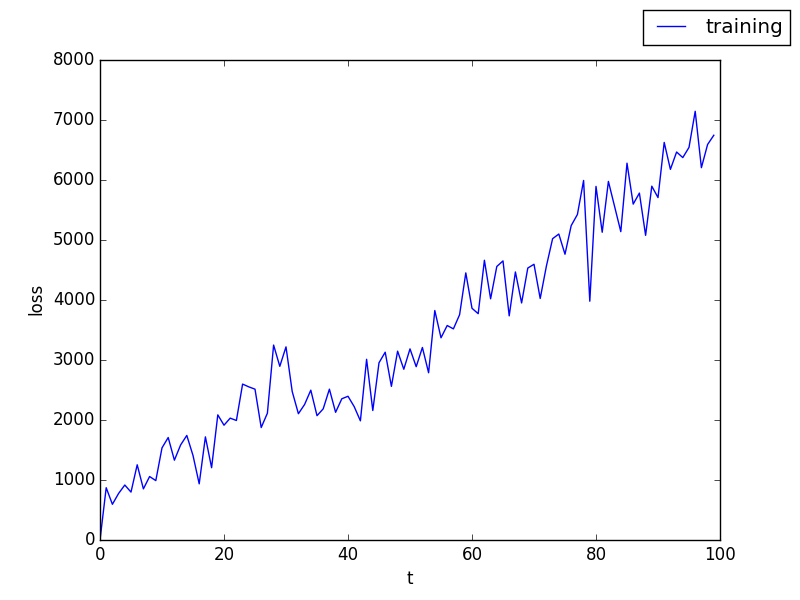
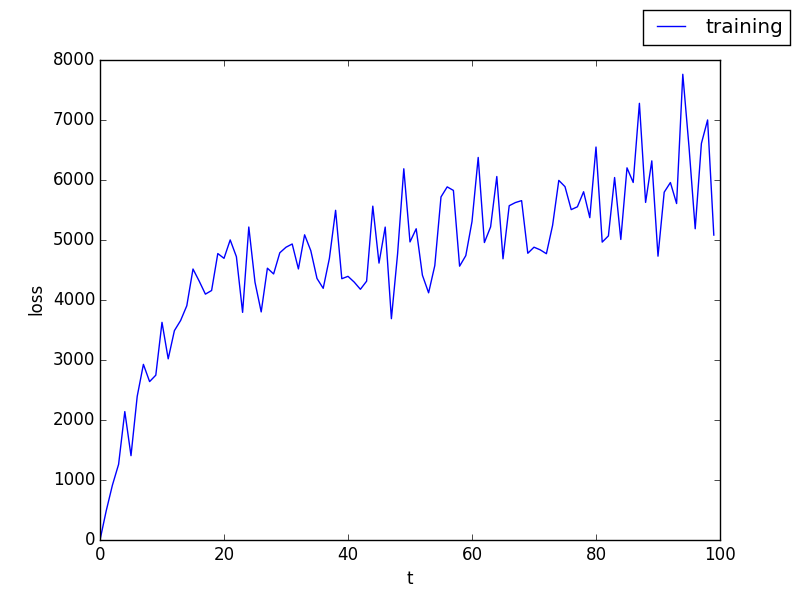
added terminal state

diff --git a/world/tasks.py b/world/tasks.py
@@ -36,6 +36,7 @@ class Foo(Iterator):
         self.state = self.get_state()
         self.obs = self.get_observation()
         self.reward = None
+        self.terminal = None
 
         return self
 
@@ -47,7 +48,7 @@ class Foo(Iterator):
         self.idx += 1
 
         # return new observation and reward associated with agent's choice
-        return self.obs, self.reward
+        return self.obs, self.reward, np.zeros(self.batch_size, dtype=np.bool)
 
     def process(self, agent):
         """ Process agent action, compute reward and generate new state and observation
@@ -148,6 +149,7 @@ class ProbabilisticCategorizationTask(Iterator):
         self.state = None
         self.obs = None
         self.reward = None
+        self.terminal = None
 
     def __iter__(self):
 
@@ -155,6 +157,7 @@ class ProbabilisticCategorizationTask(Iterator):
         self.state = np.int32(np.random.randint(1, 3, size=[self.batch_size,1]))
         self.obs = np.zeros([self.batch_size, self.n_input], dtype='float32')
         self.reward = None
+        self.terminal = np.zeros(self.batch_size, dtype=np.bool)
 
         return self
 
@@ -165,8 +168,8 @@ class ProbabilisticCategorizationTask(Iterator):
 
         self.idx += 1
 
-        # return new observation and reward associated with agent's choice
-        return self.obs, self.reward
+        # return new observation and reward associated with agent's choice and terminal state
+        return self.obs, self.reward, self.terminal
 
     def process(self, agent):
 
@@ -186,6 +189,7 @@ class ProbabilisticCategorizationTask(Iterator):
             else:
                 evidence = np.random.choice(self.n_input, p=self.q)
             obs[i,evidence] = 1
+        self.terminal[idx] = 0
 
         # handle cases where left or right was chosen
         idx = np.where(agent.action != 0)[0]
@@ -197,6 +201,7 @@ class ProbabilisticCategorizationTask(Iterator):
                 self.reward[i] = self.rewards[2]
 
             self.state[i] = np.int32(np.random.randint(1, 3))
+        self.terminal[idx] = 1
 
         self.obs = obs
 
@@ -231,6 +236,7 @@ class DataTask(Iterator):
         self.state = None
         self.obs = None
         self.reward = None
+        self.terminal = None
 
     def __iter__(self):
 
@@ -247,6 +253,8 @@ class DataTask(Iterator):
 
         self.reward = None
 
+        self.terminal = np.zeros(self.batch_size, dtype=np.bool)
+
         return self
 
     def next(self):
@@ -259,7 +267,7 @@ class DataTask(Iterator):
         if self.monitor:
             map(lambda x: x.set('state', copy.copy(self.state)), self.monitor)
 
-        return self.add_noise(self.obs), self.reward
+        return self.add_noise(self.obs), self.reward, self.terminal
 
     def add_noise(self, data):
 
@@ -282,9 +290,6 @@ class DataTask(Iterator):
         :param agent:
         :return:
         """
-
-        if self.monitor:
-            map(lambda x: x.set('accuracy', 1.0*np.sum(agent.action == self.state)/agent.action.size), self.monitor)
 
         self.reward = np.zeros(len(agent.action), dtype=np.float32)
 
@@ -310,6 +315,17 @@ class DataTask(Iterator):
 
         update_idx = np.setdiff1d(np.arange(self.batch_size), wait_idx)
 
+        # compute accuracy on those trials for which a decision is being made
+        if self.monitor:
+            if update_idx.size > 0:
+                map(lambda x: x.set('accuracy', 1.0*np.sum(agent.action[update_idx] == self.state[update_idx])/update_idx.size), self.monitor)
+            else:
+                map(lambda x: x.set('accuracy', None), self.monitor)
+
         _order = np.random.permutation(self.n_samples)[:update_idx.size]
         self.state[update_idx] = self.data[_order][1]
         self.obs[update_idx] = self.data[_order][0]
+
+        # compute which ones are terminal states
+        self.terminal[update_idx] = 1
+        self.terminal[wait_idx] = 0

diff --git a/agent/reinforcement.py b/agent/reinforcement.py
@@ -78,10 +78,13 @@ class REINFORCEAgent(ActorCriticAgent):
         """
 
         # get reward associated with taking the previous action in the previous state
-        reward = data[-1]
+        reward = data[-2]
         if not reward is None:
             self.buffer.set('reward', reward)
             self.cum_reward += reward
+
+        # get terminal state
+        terminal = data[-1]
 
         # store cumulative reward
         if self.monitor:
@@ -185,10 +188,13 @@ class AACAgent(ActorCriticAgent):
         """
 
         # get reward associated with taking the previous action in the previous state
-        reward = data[-1]
+        reward = data[-2]
         if not reward is None:
             self.buffer.set('reward', reward)
             self.cum_reward += reward
+
+        # get terminal state
+        terminal = data[-1]
 
         # store cumulative reward
         if self.monitor:
@@ -198,10 +204,10 @@ class AACAgent(ActorCriticAgent):
         self.action, policy, value = self.model(map(lambda x: Variable(self.xp.asarray(x)), data), train=train)
 
         # backpropagate if we reach the cutoff for truncated backprop or if we processed the last batch
-        if train and idx > 0 and ((self.cutoff and (idx % self.cutoff) == 0) or final):
+        if train and idx > 0 and ((self.cutoff and (idx % self.cutoff) == 0) or final or (len(terminal)==1 and terminal)):
 
             # return value associated with last state
-            _return = value
+            _return = value * terminal
 
             pi_loss = Variable(self.xp.zeros((), 'float32'))
             v_loss = Variable(self.xp.zeros((), 'float32'))

diff --git a/brain/models.py b/brain/models.py
@@ -158,7 +158,7 @@ class ActorCriticModel(Model):
         """
 
         # separate observation from reward
-        x = data[0] if len(data) == 2 else data[:-1]  # inputs
+        x = data[0] if len(data) == 3 else data[:-2]  # inputs (rest is reward and terminal state)
 
         if self.monitor:
             if isinstance(x, list):
